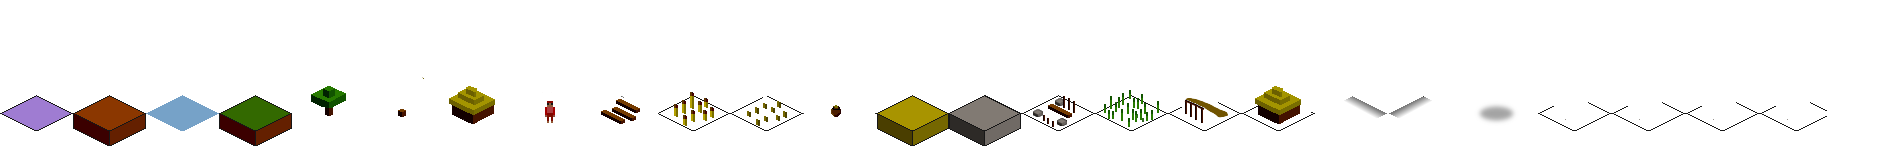
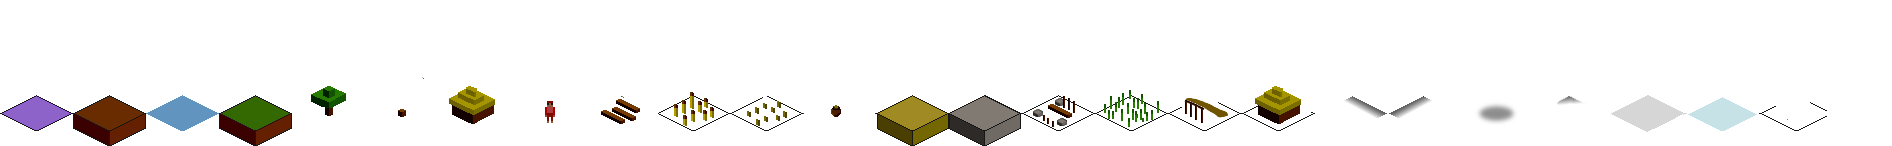
Added cloud layer, improved rendering

diff --git a/js/render.js b/js/render.js
@@ -9,8 +9,8 @@
       this.height_multiplier = 14;
       this.el_width = 73;
       this.el_height = 146;
-      this.x_offset = 0;
-      this.y_offset = 0;
+      this.x_offset = Math.round(this.world.width / 2) - 10;
+      this.y_offset = Math.round(this.world.height / 2) - 10;
       this.viewport_offset_x = 0;
       this.viewport_offset_y = 0;
       this.viewport_width = 10;
@@ -69,12 +69,12 @@
     };
 
     Render.prototype.update_map = function() {
-      var actor, height, i, ix, iy, light, ox, oy, ref, results, task, tile, x, y;
+      var actor, corner, h, height, i, item, ix, iy, light, ox, oy, ref, results, task, tile, x, y;
       this.map_context.clearRect(0, 0, 2000, 2000);
       results = [];
       for (x = i = 1, ref = this.viewport_width; 1 <= ref ? i <= ref : i >= ref; x = 1 <= ref ? ++i : --i) {
         results.push((function() {
-          var j, ref1, results1;
+          var j, k, ref1, ref2, results1;
           results1 = [];
           for (y = j = 1, ref1 = this.viewport_height; 1 <= ref1 ? j <= ref1 : j >= ref1; y = 1 <= ref1 ? ++j : --j) {
             ox = x + this.x_offset;
@@ -92,53 +92,66 @@
               continue;
             }
             tile = this.world.map[ox][oy].tile;
+            task = this.world.task[ox][oy];
+            item = this.world.items[ox][oy];
             height = this.world.map[ox][oy].get_vertical_offset();
             ix = x * this.tile_width - (y * this.tile_width);
             iy = y * this.tile_height + (x * this.tile_height);
             light = this.world.light[ox][oy];
+            if (this.world.cloud[ox][oy] > 2) {
+              light = light + 2;
+            }
             if (height < this.world.water_level) {
-              light = 10;
+              light = light + 10;
+            }
+            if (x === this.viewport_width || y === this.viewport_height || ox === this.world.width || oy === this.world.height) {
+              for (h = k = -1, ref2 = height; -1 <= ref2 ? k <= ref2 : k >= ref2; h = -1 <= ref2 ? ++k : --k) {
+                this.draw_tile(this.map_context, 3, ix, iy, h, 8 - h);
+              }
             }
             this.draw_tile(this.map_context, tile, ix, iy, height, light);
+            corner = true;
             if (oy > 1 && this.world.map[ox][oy - 1].height > height) {
               this.draw_tile(this.map_context, 18, ix, iy, height, light);
+              corner = false;
             }
             if (ox > 1 && this.world.map[ox - 1][oy].height > height) {
               this.draw_tile(this.map_context, 19, ix, iy, height, light);
+              corner = false;
             }
-            if (this.world.items[ox][oy]) {
+            if (ox > 1 && oy > 1 && corner && this.world.map[ox - 1][oy - 1].height > height) {
+              this.draw_tile(this.map_context, 21, ix, iy, height, light);
+            }
+            if (item) {
               this.draw_tile(this.map_context, 20, ix, iy, height, light);
             }
             if (height < this.world.water_level) {
-              this.draw_tile(this.map_context, 2, ix, iy, this.world.water_level, height);
+              this.draw_tile(this.map_context, 2, ix, iy, this.world.water_level, this.world.light[ox][oy]);
             }
-            this.map_context.fillStyle = '#ccc';
-            task = this.world.task[ox][oy];
             if (task) {
               if (task.work > 0) {
-                this.map_context.fillText(task.work, ix + this.viewport_offset_x + this.tile_width / 2, (iy + this.viewport_offset_y - height * 3) + 85);
+                this.draw_tile(this.map_context, 23, ix, iy, height, light);
+                this.map_context.fillText(task.work, ix + this.tile_width / 2, (iy - height * 3) + 85);
               }
-              if (!this.world.items[ox][oy]) {
-                this.map_context.fillText(task.abbr, ix + this.viewport_offset_x + 17, (iy + this.viewport_offset_y - height * 3) + 85);
-              }
-            }
-            if (this.world.items[ox][oy]) {
-              tile = this.world.items[ox][oy].get_tile();
-              this.draw_tile(this.map_context, tile, ix, iy, height, light);
-              if (this.world.items[ox][oy].count > 1) {
-                this.map_context.fillText(this.world.items[ox][oy].count, ix + this.viewport_offset_x + 17, (iy + this.viewport_offset_y - height * 3) + 85);
+              if (!item) {
+                this.map_context.fillText(task.abbr, ix + 17, (iy + height * 3) + 85);
               }
             }
-            if (this.world.actors[ox][oy]) {
-              actor = this.world.actors[ox][oy];
-              tile = actor.get_tile();
-              this.draw_tile(this.map_context, tile, ix, iy, height, light);
-              if (this.world.actors[ox][oy].carry) {
-                tile = this.world.actors[ox][oy].carry.get_tile();
-                results1.push(this.draw_tile(this.map_context, tile, ix, iy, height + 1, light));
-              } else {
-                results1.push(void 0);
+            if (item) {
+              this.draw_tile(this.map_context, item.get_tile(), ix, iy, height, light);
+              if (item.count > 1) {
+                this.map_context.fillText(item.count, ix + 17, (iy + height * 3) + 85);
               }
+            }
+            actor = this.world.actors[ox][oy];
+            if (actor) {
+              this.draw_tile(this.map_context, actor.get_tile(), ix, iy, height, light);
+              if (actor.carry) {
+                this.draw_tile(this.map_context, actor.carry.get_tile(), ix, iy, height + 1, light);
+              }
+            }
+            if (this.world.cloud[ox][oy] > 2) {
+              results1.push(this.draw_tile(this.map_context, 22, ix, iy, 8, light));
             } else {
               results1.push(void 0);
             }

diff --git a/js/world.js b/js/world.js
@@ -17,6 +17,8 @@
 
     World.prototype.items = [];
 
+    World.prototype.cloud = [];
+
     World.prototype.height_map = [];
 
     World.prototype.task = [];
@@ -27,7 +29,7 @@
 
     World.prototype.actor_queue = [];
 
-    World.prototype.water_level = 0;
+    World.prototype.water_level = 1;
 
     World.prototype.next_id = 0;
 
@@ -35,7 +37,7 @@
 
     World.prototype.version = 0;
 
-    function World(width, height) {
+    function World(width, height, seed) {
       var i, ref, x;
       this.width = width;
       this.height = height;
@@ -45,7 +47,9 @@
         this.items[x] = [];
         this.actors[x] = [];
         this.light[x] = [];
+        this.cloud[x] = [];
       }
+      this.rng = new RNG(seed);
     }
 
     World.prototype.get_access_map = function() {
@@ -131,6 +135,12 @@
       for (x = i = 1, ref = this.width; 1 <= ref ? i <= ref : i >= ref; x = 1 <= ref ? ++i : --i) {
         for (y = j = 1, ref1 = this.height; 1 <= ref1 ? j <= ref1 : j >= ref1; y = 1 <= ref1 ? ++j : --j) {
           if (this.items[x][y]) {
+            continue;
+          }
+          if (this.height_map[x][y] < this.water_level) {
+            continue;
+          }
+          if (this.actors[x][y]) {
             continue;
           }
           distance_to_item = Math.abs(x - start_x) + Math.abs(y - start_y);
@@ -252,10 +262,10 @@
 
     World.prototype.normalize = function(map, norm) {
       var i, j, k, max, ref, ref1, ref2, results, x, y;
-      max = 0;
+      max = null;
       for (x = i = 1, ref = this.width; 1 <= ref ? i <= ref : i >= ref; x = 1 <= ref ? ++i : --i) {
         for (y = j = 1, ref1 = this.height; 1 <= ref1 ? j <= ref1 : j >= ref1; y = 1 <= ref1 ? ++j : --j) {
-          if (map[x][y] > max) {
+          if (max === null || map[x][y] > max) {
             max = map[x][y];
           }
         }
@@ -280,13 +290,28 @@
         this.height_map[x] = [];
         for (y = j = 1, ref1 = this.height; 1 <= ref1 ? j <= ref1 : j >= ref1; y = 1 <= ref1 ? ++j : --j) {
           this.height_map[x][y] = 2;
-          if (Math.round(Math.random() * 20) === 1) {
-            this.height_map[x][y] = Math.floor(Math.random() * 1000) - 500;
+          if (this.rng.random(1, 10) === 1) {
+            this.height_map[x][y] = this.rng.random(-200, 300);
           }
         }
       }
-      this.smoothen(this.height_map, 20);
-      return this.normalize(this.height_map, 4);
+      this.smoothen(this.height_map, 5);
+      return this.normalize(this.height_map, 6);
+    };
+
+    World.prototype.create_cloud_map = function() {
+      var i, j, ref, ref1, x, y;
+      for (x = i = 1, ref = this.width; 1 <= ref ? i <= ref : i >= ref; x = 1 <= ref ? ++i : --i) {
+        this.cloud[x] = [];
+        for (y = j = 1, ref1 = this.height; 1 <= ref1 ? j <= ref1 : j >= ref1; y = 1 <= ref1 ? ++j : --j) {
+          this.cloud[x][y] = 2;
+          if (this.rng.random(1, 20) === 1) {
+            this.cloud[x][y] = this.rng.random(1, 500);
+          }
+        }
+      }
+      this.smoothen(this.cloud, 5);
+      return this.normalize(this.cloud, 6);
     };
 
     World.prototype.find_item = function(start_x, start_y, object, in_pile) {
@@ -330,6 +355,11 @@
           var j, ref1, results1;
           results1 = [];
           for (y = j = 1, ref1 = this.height; 1 <= ref1 ? j <= ref1 : j >= ref1; y = 1 <= ref1 ? ++j : --j) {
+            if (x === this.width) {
+              this.cloud[x][y] = this.cloud[1][y];
+            } else {
+              this.cloud[x][y] = this.cloud[x + 1][y];
+            }
             if (!this.items[x][y]) {
               continue;
             }
@@ -344,6 +374,7 @@
     World.prototype.generate = function() {
       var i, ref, results, x, y;
       this.create_height_map();
+      this.create_cloud_map();
       results = [];
       for (x = i = 1, ref = this.width; 1 <= ref ? i <= ref : i >= ref; x = 1 <= ref ? ++i : --i) {
         this.map[x] = [];
@@ -377,7 +408,7 @@
           var l, ref3, results1;
           results1 = [];
           for (y = l = 1, ref3 = this.height; 1 <= ref3 ? l <= ref3 : l >= ref3; y = 1 <= ref3 ? ++l : --l) {
-            results1.push(this.light[x][y] = parseInt(factor * (max_height - this.height_map[x][y]), 10) + parseInt(Math.random() * 2, 10));
+            results1.push(this.light[x][y] = parseInt(factor * (max_height - this.height_map[x][y]), 10) + this.rng.random(1, 3));
           }
           return results1;
         }).call(this));
@@ -391,7 +422,7 @@
       for (x = i = 1, ref = this.width; 1 <= ref ? i <= ref : i >= ref; x = 1 <= ref ? ++i : --i) {
         plains[x] = [];
         for (y = j = 1, ref1 = this.height; 1 <= ref1 ? j <= ref1 : j >= ref1; y = 1 <= ref1 ? ++j : --j) {
-          plains[x][y] = Math.floor(Math.random() * 10);
+          plains[x][y] = this.rng.random(1, 10);
         }
       }
       this.smoothen(plains, 10);
@@ -408,7 +439,7 @@
             if (this.height_map[x][y] < this.water_level) {
               results1.push(this.map[x][y] = new window.Dirt(this, x, y, this.height_map[x][y]));
             } else {
-              if (Math.floor(Math.random() * 40) === 1) {
+              if (this.rng.random(1, 40) === 1) {
                 this.items[x][y] = new window.Wheat(this, x, y, this.height_map[x][y]);
               }
               if (plains[x][y] === 4) {

diff --git a/js/control.js b/js/control.js
@@ -26,8 +26,8 @@
       var tile_height, tile_width, x, y;
       tile_width = this.renderer.tile_width;
       tile_height = this.renderer.tile_height;
-      x = ((cursor_x - this.renderer.viewport_offset_x) * .25) - 10;
-      y = ((cursor_y - this.renderer.viewport_offset_y) - 100) * this.renderer.zoom;
+      x = (((cursor_x - this.renderer.viewport_offset_x) * .25) - 10) / this.renderer.zoom;
+      y = ((cursor_y - this.renderer.viewport_offset_y) - 100) / this.renderer.zoom;
       return {
         x: Math.round((x / tile_height) + (y / tile_width)),
         y: Math.round((y / tile_width) - (x / tile_height))
@@ -66,8 +66,8 @@
             _this.show_cursor(cursor.x, cursor.y);
           }
           if (_this.move_map) {
-            _this.renderer.x_offset = _this.base_offset_x + (_this.move_map.x - cursor.x);
-            return _this.renderer.y_offset = _this.base_offset_y + (_this.move_map.y - cursor.y);
+            _this.renderer.x_offset = parseInt(_this.base_offset_x + (_this.move_map.x - cursor.x) * _this.renderer.zoom, 10);
+            return _this.renderer.y_offset = parseInt(_this.base_offset_y + (_this.move_map.y - cursor.y) * _this.renderer.zoom, 10);
           }
         };
       })(this));

diff --git a/js/engine.js b/js/engine.js
@@ -13,7 +13,7 @@
 
     function Engine() {
       this.content = new Content(window.RESOURCES);
-      this.world = new window.World(250, 250);
+      this.world = new window.World(250, 250, 29399);
       this.render = new window.Render(this.world, this.content);
       this.control = new window.Control(this.world, this.content, this.render);
     }
@@ -26,7 +26,7 @@
         return function() {
           var render_frame, task_queue_delay, world_cycle_delay;
           _this.control.init();
-          _this.load_test_world();
+          _this.world.add_item(new window.House(_this.world, Math.round(_this.world.width / 2), Math.round(_this.world.height / 2)));
           _this.render.update();
           task_queue_delay = 0;
           world_cycle_delay = 0;
@@ -66,7 +66,6 @@
           this.world.height_map[5 + x][5 + y] = 1;
         }
       }
-      console.debug("hier?");
       this.world.add_item(new window.House(this.world, 10, 12));
       this.world.add_item(new window.Wood(this.world, 15, 11, 10));
       return this.world.changed = true;

diff --git a/tiled.html b/tiled.html
@@ -9,6 +9,7 @@
         <!-- Used for the UI -->
         <script type="text/javascript" src="js/libs/jquery.min.js"></script>
         <script type="text/javascript" src="js/libs/underscore.js"></script>
+        <script type="text/javascript" src="js/libs/rng.js"></script>
 
 
         <!-- Libraries used -->
